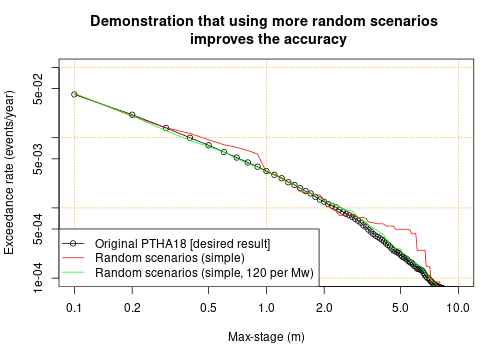
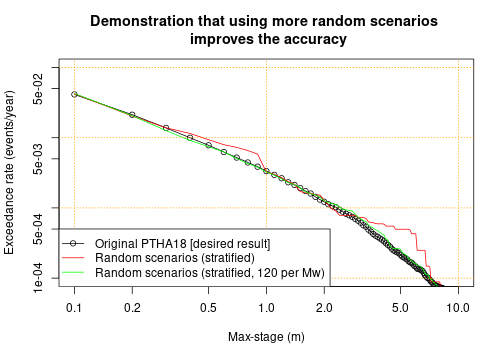
update tutorial

Changed region(s): [[0.4167, 0.6111, 0.6548, 0.7944]]

diff --git a/ptha_access/example_event_access_scripts/random_scenarios_non_uniform_and_importance_sampling/random_scenario_sampling.md b/ptha_access/example_event_access_scripts/random_scenarios_non_uniform_and_importance_sampling/random_scenario_sampling.md
@@ -58,7 +58,7 @@ event_peak_stage = event_peak_stage_at_refpoint$kermadectonga2$max_stage
 ## Random scenario sampling, stratified by magnitude
 ----------------------------------------------------
 
-Our simplest random scenario sampling algorithm proceeds as follows
+Our simplest random scenario sampling algorithm is termed `stratified-sampling` and proceeds as follows
 * Group the scenarios by magnitude
 * For each magnitude, sample a given number of scenarios with replacement, with
   the chance of sampling each scenario proportional to its conditional
@@ -69,8 +69,9 @@ magnitudes, and the scenario rates. From these variables the function will
 internally compute the scenario conditional probability for each unique
 magnitude value (which ranges from 7.2, 7.3, ... 9.6, 9.7, 9.8 in PTHA18). 
 
-We also need to specify the number of scenarios to sample for each magnitude -
-herein a constant (12) is used, although in general it can vary with magnitude.
+We also need to specify the number of scenarios to sample for each magnitude. 
+Herein a constant (12) is used, although in general it can vary with magnitude
+(discussed later).
 
 
 ```r
@@ -82,11 +83,10 @@ event_rates = kt2_scenarios$events$rate_annual
 set.seed(12)
 
 # Make the random scenarios
-random_scenarios_simple = ptha18$randomly_sample_scenarios_by_Mw_and_rate(
+random_scenarios_stratified = ptha18$randomly_sample_scenarios_by_Mw_and_rate(
     event_rates=event_rates,
     event_Mw=event_Mw,
-    samples_per_Mw=function(Mw){ 12 }, # Number of samples for each Mw
-    mw_limits=c(7.15, 9.85) # Optionally limit the mw range of random samples
+    samples_per_Mw=function(Mw){ 12*(Mw < 9.65) } # Number of samples for each Mw
     )
 ```
 
@@ -97,7 +97,7 @@ that will be discussed further below.
 
 ```r
 # Look at the first few rows
-head(random_scenarios_simple)
+head(random_scenarios_stratified)
 ```
 
 ```
@@ -136,7 +136,7 @@ The columns are
   are simply columns of the event table, `inds` also also correspond to rows in
   `kt2_scenarios$events`.
 * `mw` is the scenario magnitude. This is the same as
-  `event_Mw[random_scenarios_simple$inds]`
+  `event_Mw[random_scenarios_stratified$inds]`
 * `rate_with_this_mw` is the rate of ANY scenario with the same magnitude. This
   is the sum of `event_rates` for scenarios with the corresponding magnitude.
   Note THIS IS NOT THE RATE OF THE INDIVIDUAL SCENARIO!
@@ -162,7 +162,7 @@ table, for magnitudes `9.7` and `9.8`.
 
 ```r
 # Look at the last few rows - NA values for magnitudes that are "impossible" according to PTHA18 (rate_annual=0)
-tail(random_scenarios_simple)
+tail(random_scenarios_stratified)
 ```
 
 ```
@@ -200,7 +200,7 @@ Aside from the impossible magnitudes, we can confirm that we have 12 scenarios
 per magnitude, as requested.
 
 ```r
-table(random_scenarios_simple$mw)
+table(random_scenarios_stratified$mw)
 ```
 
 ```
@@ -239,10 +239,10 @@ stage_exrates_ptha18 = sapply(stage_seq, function(x) sum(event_rates*(event_peak
 The analogous calculation using only the random sample is:
 
 ```r
-stage_exrates_rs_simple = sapply(stage_seq, 
+stage_exrates_rs_stratified = sapply(stage_seq, 
     function(x){
-        sum(random_scenarios_simple$importance_sampling_scenario_rates_basic * 
-            (event_peak_stage[random_scenarios_simple$inds] > x), na.rm=TRUE)
+        sum(random_scenarios_stratified$importance_sampling_scenario_rates_basic * 
+            (event_peak_stage[random_scenarios_stratified$inds] > x), na.rm=TRUE)
     })
 ```
 
@@ -264,18 +264,17 @@ as the sample size is increased.
 
 ```r
 # Make the random scenarios -- use 120 per magnitude, instead of 12
-random_scenarios_simple_many = ptha18$randomly_sample_scenarios_by_Mw_and_rate(
+random_scenarios_stratified_many = ptha18$randomly_sample_scenarios_by_Mw_and_rate(
     event_rates=event_rates,
     event_Mw=event_Mw,
-    samples_per_Mw=function(Mw){ 120 }, # Number of samples for each Mw
-    mw_limits=c(7.15, 9.85) # Optionally limit the mw range of random samples
+    samples_per_Mw=function(Mw){ 120 } # Number of samples for each Mw
     )
 
 # Compute the max-stage exceedance-rates
-stage_exrates_rs_simple_many = sapply(stage_seq, 
+stage_exrates_rs_stratified_many = sapply(stage_seq, 
     function(x){
-        sum(random_scenarios_simple_many$importance_sampling_scenario_rates_basic * 
-            (event_peak_stage[random_scenarios_simple_many$inds] > x), na.rm=TRUE)
+        sum(random_scenarios_stratified_many$importance_sampling_scenario_rates_basic * 
+            (event_peak_stage[random_scenarios_stratified_many$inds] > x), na.rm=TRUE)
     })
 ```
 
@@ -304,14 +303,14 @@ accuracy improvement on-average.
 ## Random scenario sampling, with more scenarios at magnitudes of interest
 --------------------------------------------------------------------------
 
-The simple random sample that was defined above has many scenario with low
+The stratified random sample that was defined above has many scenario with low
 maximum-stage values, which are not of particular interest for this study. For
 instance half of all the scenarios have max-stage less than 
 0.171
 m, which seems too small to be of much interest in most tsunami hazard studies. 
 
 ```r
-quantile(event_peak_stage[random_scenarios_simple$inds], seq(0, 1, len=5), na.rm=TRUE)
+quantile(event_peak_stage[random_scenarios_stratified$inds], seq(0, 1, len=5), na.rm=TRUE)
 ```
 
 ```
@@ -344,8 +343,7 @@ sampling_effort_linear = approxfun(unique_Mws,
 random_scenarios_mw_weighted1 = ptha18$randomly_sample_scenarios_by_Mw_and_rate(
     event_rates=event_rates,
     event_Mw=event_Mw,
-    samples_per_Mw=sampling_effort_linear, 
-    mw_limits=c(7.15, 9.85) # Optionally limit the mw range of random samples
+    samples_per_Mw=sampling_effort_linear 
     )
 
 # Compute the max-stage exceedance-rates
@@ -384,6 +382,7 @@ non_uniform_samples_2 = ptha18$get_optimal_number_of_samples_per_Mw(
     event_Mw, event_rates, event_peak_stage, stage_threshold=2, 
     total_samples=TOTAL_SAMPLES)
 
+# Look at the data structure
 non_uniform_samples_2
 ```
 
@@ -455,7 +454,7 @@ average_nonuniform_sampling_effort =
     0.5*(non_uniform_samples_2$Nsamples + non_uniform_samples_5$Nsamples)
 
 # 25% uniform, 75% weighted non-uniform, rounded to integer values
-chosen_sampling_effort = round(
+chosen_sampling_effort_stratified = round(
     0.25*uniform_sampling_effort + 
     0.75*(average_nonuniform_sampling_effort))
 ```
@@ -468,8 +467,7 @@ At this point we can sample non-uniformly with the chosen sampling effort.
 random_scenarios_mw_weighted2 = ptha18$randomly_sample_scenarios_by_Mw_and_rate(
     event_rates=event_rates,
     event_Mw=event_Mw,
-    samples_per_Mw=approxfun(unique_Mws, chosen_sampling_effort, method='constant'), 
-    mw_limits=c(7.15, 9.85) # Optionally limit the mw range of random samples
+    samples_per_Mw=approxfun(unique_Mws, chosen_sampling_effort_stratified, method='constant')
     )
 
 # Compute the max-stage exceedance-rates
@@ -556,8 +554,7 @@ random_scenarios_stage_weighted = ptha18$randomly_sample_scenarios_by_Mw_and_rat
     event_rates=event_rates,
     event_Mw=event_Mw,
     event_importance_weighted_sampling_probs = (event_rates * event_peak_stage),
-    samples_per_Mw=function(Mw){ 12*(Mw < 9.65) },
-    mw_limits=c(7.15, 9.85) 
+    samples_per_Mw=function(Mw){ 12*(Mw < 9.65) }
     )
 
 # Compute the max-stage exceedance-rates
@@ -635,8 +632,7 @@ random_scenarios_stage_mw_weighted = ptha18$randomly_sample_scenarios_by_Mw_and_
     event_rates=event_rates,
     event_Mw=event_Mw,
     event_importance_weighted_sampling_probs = (event_rates * event_peak_stage),
-    samples_per_Mw=approxfun(unique_Mws, chosen_sampling_effort_IS, method='constant') ,
-    mw_limits=c(7.15, 9.85) 
+    samples_per_Mw=approxfun(unique_Mws, chosen_sampling_effort_IS, method='constant')
     )
 
 # Compute the max-stage exceedance-rates
@@ -661,4 +657,18 @@ quantile(event_peak_stage[random_scenarios_stage_mw_weighted$inds], seq(0, 1, le
 ##           0%          25%          50%          75%         100% 
 ##  0.007150979  0.425657332  1.286300182  3.662756324 18.934926987
 ```
+
+### Summary of importance-sampling
+
+Using importance sampling it becomes much easier to well represent scenarios
+that have large waves near a site of interest. In practice we find the improvements
+can be very substantial, as compared with stratified-sampling
+
+Users should beware that importance sampling can backfire if the choice of
+`event_importance_weighted_sampling_probs` is poor. We do not have a foolproof
+method to set it, but expect the method here will work well in many cases. 
+
+Users can check for any problems by studying the performance of their choice
+under repeated sampling (at PTHA18 points) - a poor choice will lead to erratic
+behaviour, as compared to simpler approaches.
 
